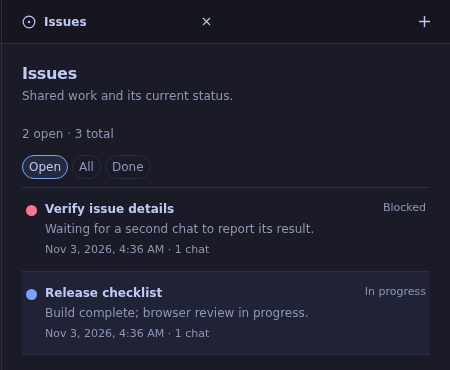
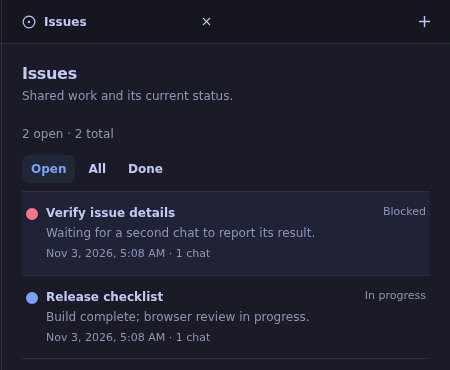
Use shared controls in Issues view

diff --git a/web/src/components/mux-chat-coordination.ts b/web/src/components/mux-chat-coordination.ts
@@ -23,7 +23,7 @@ export class MuxChatCoordination extends LitElement {
   static styles = css`
     :host { display:block; height:100%; overflow:auto; box-sizing:border-box; background:var(--ui-surface-base); color:var(--ui-text); font:var(--ui-text-sm)/1.5 var(--ui-font-sans); }
     * { box-sizing:border-box; }
-    .wrap { max-width:800px; margin:0 auto; padding:var(--ui-space-7); }
+    .wrap { max-width:var(--ui-chat-content-width); margin:0 auto; padding:var(--ui-space-7); }
     h2,h3,p { margin:0; }
     h2 { font-size:var(--ui-text-xl); line-height:1.2; letter-spacing:-.02em; }
     h3 { font-size:var(--ui-text-md); }
@@ -32,18 +32,16 @@ export class MuxChatCoordination extends LitElement {
     .overview { display:flex; align-items:center; justify-content:space-between; gap:var(--ui-space-4); margin:var(--ui-space-7) 0 var(--ui-space-5); }
     .overview p { color:var(--ui-text-muted); }
     .filters { display:flex; gap:var(--ui-space-2); margin-bottom:var(--ui-space-4); }
-    .filter { border:1px solid var(--ui-border); border-radius:var(--ui-radius-pill); background:transparent; color:var(--ui-text-muted); cursor:pointer; padding:var(--ui-space-1) var(--ui-space-3); font:inherit; }
-    .filter[aria-pressed="true"] { border-color:var(--ui-accent); background:color-mix(in srgb,var(--ui-accent) 12%,transparent); color:var(--ui-text); }
-    button:focus-visible { outline:2px solid var(--ui-accent); outline-offset:2px; }
+    .filter[pressed] { color:var(--ui-accent); }
     .list { border-top:1px solid var(--ui-border); }
-    .issue { display:flex; align-items:flex-start; gap:var(--ui-space-4); width:100%; border:0; border-bottom:1px solid var(--ui-border); padding:var(--ui-space-5) var(--ui-space-2); background:transparent; color:var(--ui-text); text-align:left; cursor:pointer; font:inherit; }
-    .issue:hover { background:var(--ui-surface-hover); }
-    .issue > span:nth-child(2) { flex:1; min-width:0; }
+    .issue::part(button) { display:flex; align-items:flex-start; justify-content:flex-start; gap:var(--ui-space-4); width:100%; border:0; border-bottom:1px solid var(--ui-border); border-radius:0; padding:var(--ui-space-5) var(--ui-space-2); background:transparent; color:var(--ui-text); text-align:left; white-space:normal; font:inherit; }
+    .issue:hover::part(button) { background:var(--ui-surface-hover); }
+    .issue .issue-main { flex:1; min-width:0; }
     .issue strong { display:block; font-weight:650; overflow-wrap:anywhere; }
     .summary { display:block; margin-top:var(--ui-space-1); color:var(--ui-text-muted); overflow-wrap:anywhere; }
     .meta { font-size:var(--ui-text-xs); }
     .issue .meta { display:block; margin-top:var(--ui-space-2); }
-    .status-dot { flex:none; width:11px; height:11px; margin-top:5px; border:2px solid var(--ui-border-strong); border-radius:50%; }
+    .status-dot { flex:none; width:var(--ui-space-5); height:var(--ui-space-5); margin-top:var(--ui-space-2); border:2px solid var(--ui-border-strong); border-radius:50%; }
     .status-dot.active { border-color:var(--ui-accent); background:var(--ui-accent); }
     .status-dot.blocked { border-color:var(--ui-danger); background:var(--ui-danger); }
     .status-dot.done { border-color:var(--ui-accent); background:color-mix(in srgb,var(--ui-accent) 30%,transparent); }
@@ -58,7 +56,7 @@ export class MuxChatCoordination extends LitElement {
     .entry { border-bottom:1px solid var(--ui-border); padding:var(--ui-space-4) 0; }
     .entry p { margin-top:var(--ui-space-2); white-space:pre-wrap; overflow-wrap:anywhere; }
     .error { color:var(--ui-danger); margin:var(--ui-space-3) 0; }
-    @media(max-width:550px) { .wrap { padding:var(--ui-space-5); } .issue { padding-inline:0; } .issue .status { display:none; } }
+    @media(max-width:550px) { .wrap { padding:var(--ui-space-5); } .issue::part(button) { padding-inline:0; } .issue .status { display:none; } }
   `;
 
   override connectedCallback() {
@@ -114,8 +112,8 @@ export class MuxChatCoordination extends LitElement {
     const openCount = ordered.filter(item => item.status !== 'done' && item.status !== 'cancelled').length;
     const visible = ordered.filter(item => this.filter === 'all' || (this.filter === 'done' ? item.status === 'done' || item.status === 'cancelled' : item.status !== 'done' && item.status !== 'cancelled'));
     return html`<div class="overview"><p>${openCount} open · ${this.work.length} total</p></div>
-      <div class="filters" aria-label="Filter issues">${(['open','all','done'] as const).map(filter => html`<button class="filter" type="button" aria-pressed=${this.filter === filter} @click=${() => { this.filter=filter; }}>${filter === 'open' ? 'Open' : filter === 'all' ? 'All' : 'Done'}</button>`)}</div>
-      ${visible.length ? html`<div class="list">${visible.map(item => html`<button class="issue" type="button" @click=${() => { this.detail=item; void this.refresh(); }}><span class="status-dot ${item.status}" aria-hidden="true"></span><span><strong>${item.title}</strong><span class="summary">${item.progress || item.brief || 'No progress yet'}</span><span class="meta">${this.date(item.updatedAt)} · ${[item.ownerSessionId,...item.sessionIds].length} ${[item.ownerSessionId,...item.sessionIds].length === 1 ? 'chat' : 'chats'}</span></span><span class="status">${this.statusName(item.status)}</span></button>`)}</div>` : html`<div class="empty"><strong>${this.work.length ? 'No issues in this view' : 'No issues yet'}</strong>${this.work.length ? 'Choose another filter to see them.' : 'Issues will appear here as agents record shared work.'}</div>`}`;
+      <div class="filters" aria-label="Filter issues">${(['open','all','done'] as const).map(filter => html`<mux-ui-button class="filter" size="small" variant="quiet" toggle .pressed=${this.filter === filter} @click=${() => { this.filter=filter; }}>${filter === 'open' ? 'Open' : filter === 'all' ? 'All' : 'Done'}</mux-ui-button>`)}</div>
+      ${visible.length ? html`<div class="list">${visible.map(item => html`<mux-ui-button class="issue" full-width variant="quiet" @click=${() => { this.detail=item; void this.refresh(); }}><span class="status-dot ${item.status}" aria-hidden="true"></span><span class="issue-main"><strong>${item.title}</strong><span class="summary">${item.progress || item.brief || 'No progress yet'}</span><span class="meta">${this.date(item.updatedAt)} · ${[item.ownerSessionId,...item.sessionIds].length} ${[item.ownerSessionId,...item.sessionIds].length === 1 ? 'chat' : 'chats'}</span></span><span class="status">${this.statusName(item.status)}</span></mux-ui-button>`)}</div>` : html`<div class="empty"><strong>${this.work.length ? 'No issues in this view' : 'No issues yet'}</strong>${this.work.length ? 'Choose another filter to see them.' : 'Issues will appear here as agents record shared work.'}</div>`}`;
   }
   private issueDetail() {
     const item = this.detail;
